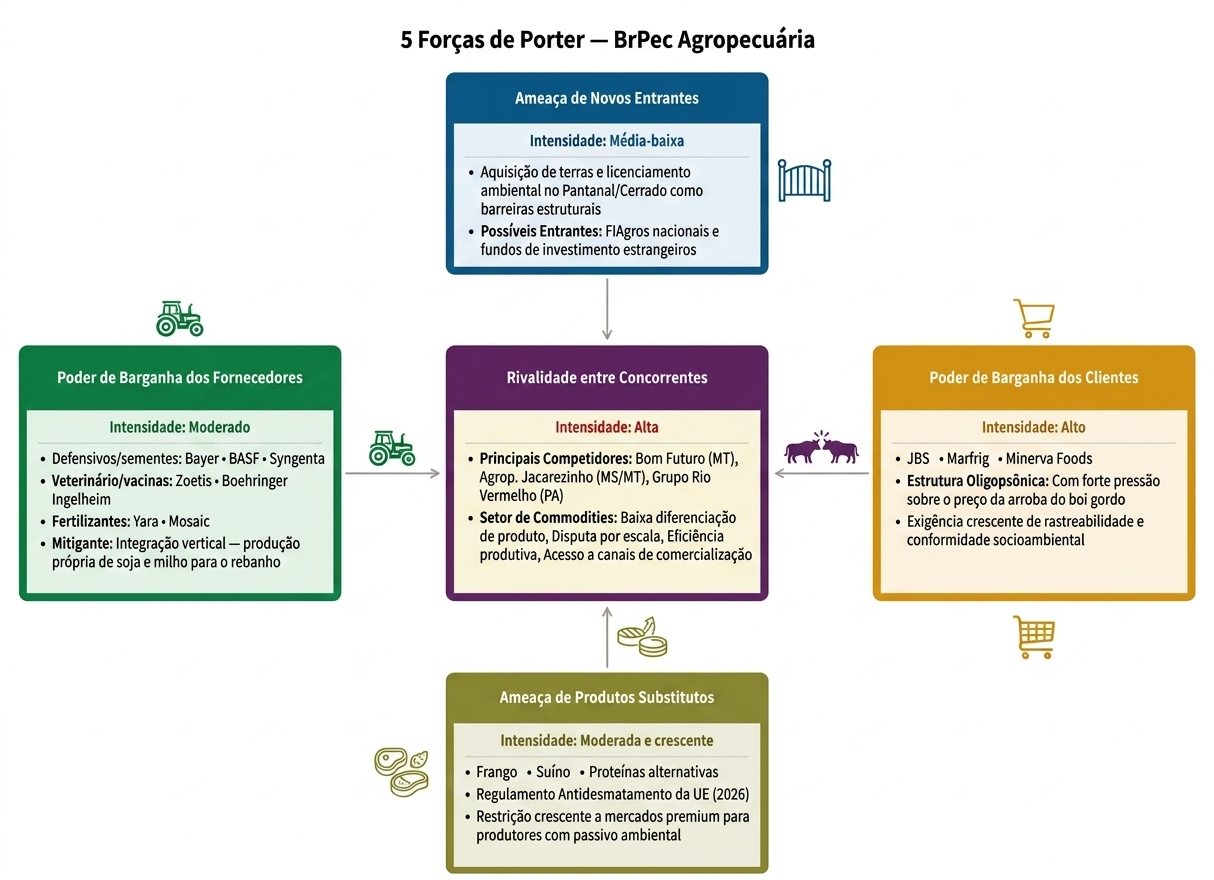
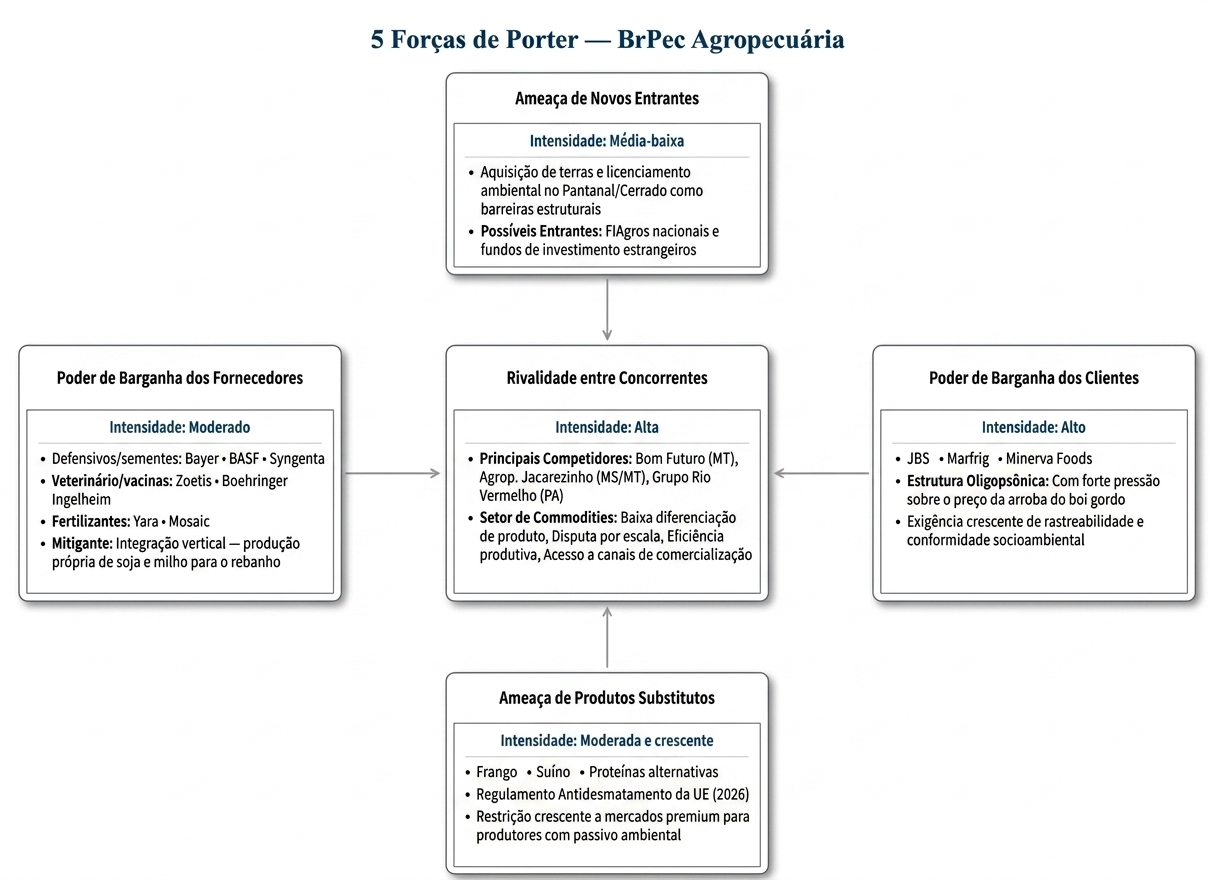
fix: imagem não estava harmônica

diff --git a/documentos/wad.md b/documentos/wad.md
@@ -67,7 +67,7 @@ Análise estrutural: A BrPec opera em setor com barreiras de entrada relevantes 
 <center>
   <img src="../assets/porterForcas.png" width="600"/>
   <p><strong>Figura 1</strong> — Análise das 5 Forças de Porter aplicada à BrPec Agropecuária<br/>
-  Fonte: Próprios autores (2025).</p>
+  Fonte: Próprios autores (2026).</p>
 </center>
 
 ### 2.1.2. Análise SWOT da Instituição Parceira (sprint 1)